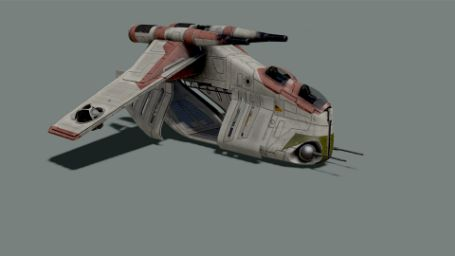
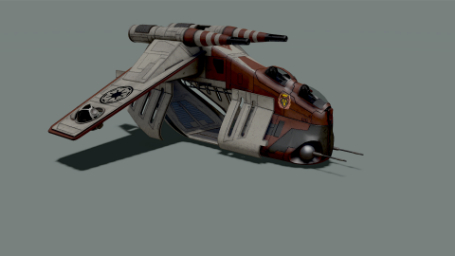
Swapped LAAT/i to KC 2 design

Changed region(s): [[0.0923, 0.0938, 0.7385, 0.6875], [0.4615, 0.5625, 0.5231, 0.625]]

diff --git a/addons/vehicles/air/laati/CfgVehicles.hpp b/addons/vehicles/air/laati/CfgVehicles.hpp
@@ -69,8 +69,8 @@ class CfgVehicles {
 
         // Textures
         hiddenSelectionsTextures[] = {
-            QPATHTOF(air\laati\data\textures\KeeliCompany\Hull_co.paa),
-            QPATHTOF(air\laati\data\textures\KeeliCompany\Wings_co.paa),
+            QPATHTOF(air\laati\data\textures\KeeliCompany2\Hull_co.paa),
+            QPATHTOF(air\laati\data\textures\KeeliCompany2\Wings_co.paa),
             "\3AS\3as_Laat\LAATI\data\Weapons_CO.paa",
             "\3AS\3as_Laat\LAATI\data\Weapon_Details_CO.paa",
             "\3AS\3as_Laat\LAATI\data\Interior_CO.paa"
@@ -79,7 +79,7 @@ class CfgVehicles {
         textureList[] = {
             "Standard", 0,
             "Imperial", 0,
-            "KeeliCompany", 1,
+            "KeeliCompany", 0,
             "KeeliCompany2", 1,
             "Akali", 0,
             "TwiLek", 0,
